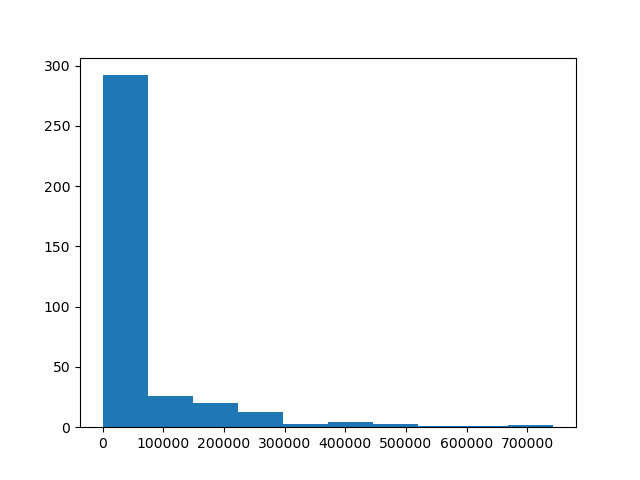
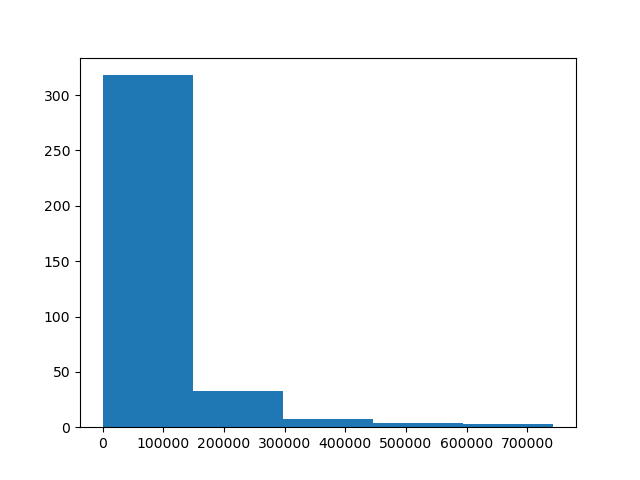
"dataset histograms"

diff --git a/get_statistics.py b/get_statistics.py
@@ -29,7 +29,7 @@ def read_netcdfs(files, dim, transform_func=None):
 def transform_df(df):
     init_date = datetime.strptime('1980-01-01', '%Y-%m-%d')
     final_date = datetime.strptime('2021-12-31', '%Y-%m-%d')
-    bbox = [18.0, 74.0, 25.0, 81.0]
+    bbox = [18.0, 74.0, 24.4, 80.4]
     df_sel = df.sel(time=slice(init_date, final_date),
             latitude=slice(bbox[0], bbox[2]),
             longitude=slice(bbox[1], bbox[3]))
@@ -50,19 +50,29 @@ std_day = np.where(std_day == 0, std_day+1, std_day)
 #np.stack(arrays, axis=0).shape
 
 #normalize_array = (final_array-mean_array)/std_array
+#slack = 1e-1
+rainfall_stats = final_array.sum(axis=2).sum(axis=1)#+slack
+sample_non_zero = [rainfall_stats[i] for i in range(len(rainfall_stats)) if rainfall_stats[i] > 0]
+#rainfall_stats = np.log(rainfall_stats)
+rainfall_stats = np.array(sample_non_zero)
+rainfall_stats = np.log(rainfall_stats)
 
-rainfall_stats = final_array.sum(axis=2).sum(axis=1)
-_, bins, _ = plt.hist(rainfall_stats, bins=10)
+
+#print(np.min([rainfall_stats[i] for i in range(len(rainfall_stats))if rainfall_stats[i]>0]))
+nbins = 10
+_, bins, _ = plt.hist(rainfall_stats, bins=nbins)
 ### include max value in bin
 bins[-1]+=1
-print(bins)
-plt.savefig('hist_1980.png')
+bins[0]-= 1e-1
+#print(bins)
+plt.savefig('hist_1980_log_transform_rem0_10bins.png')
 
 #vals = np.random.random(1e8)
-nbins = 10
+
 #bins = np.linspace(0, 1, nbins+1)
 ind = np.digitize(rainfall_stats, bins, right=False)
-#print(ind-1)
+#print(ind, np.max(ind))
+#print(np.unique(ind))
 
 result = [np.count_nonzero(rainfall_stats[ind == j]) for j in range(1, nbins+1)]
 #result = [vals[ind == j] for j in range(1, nbins)]
